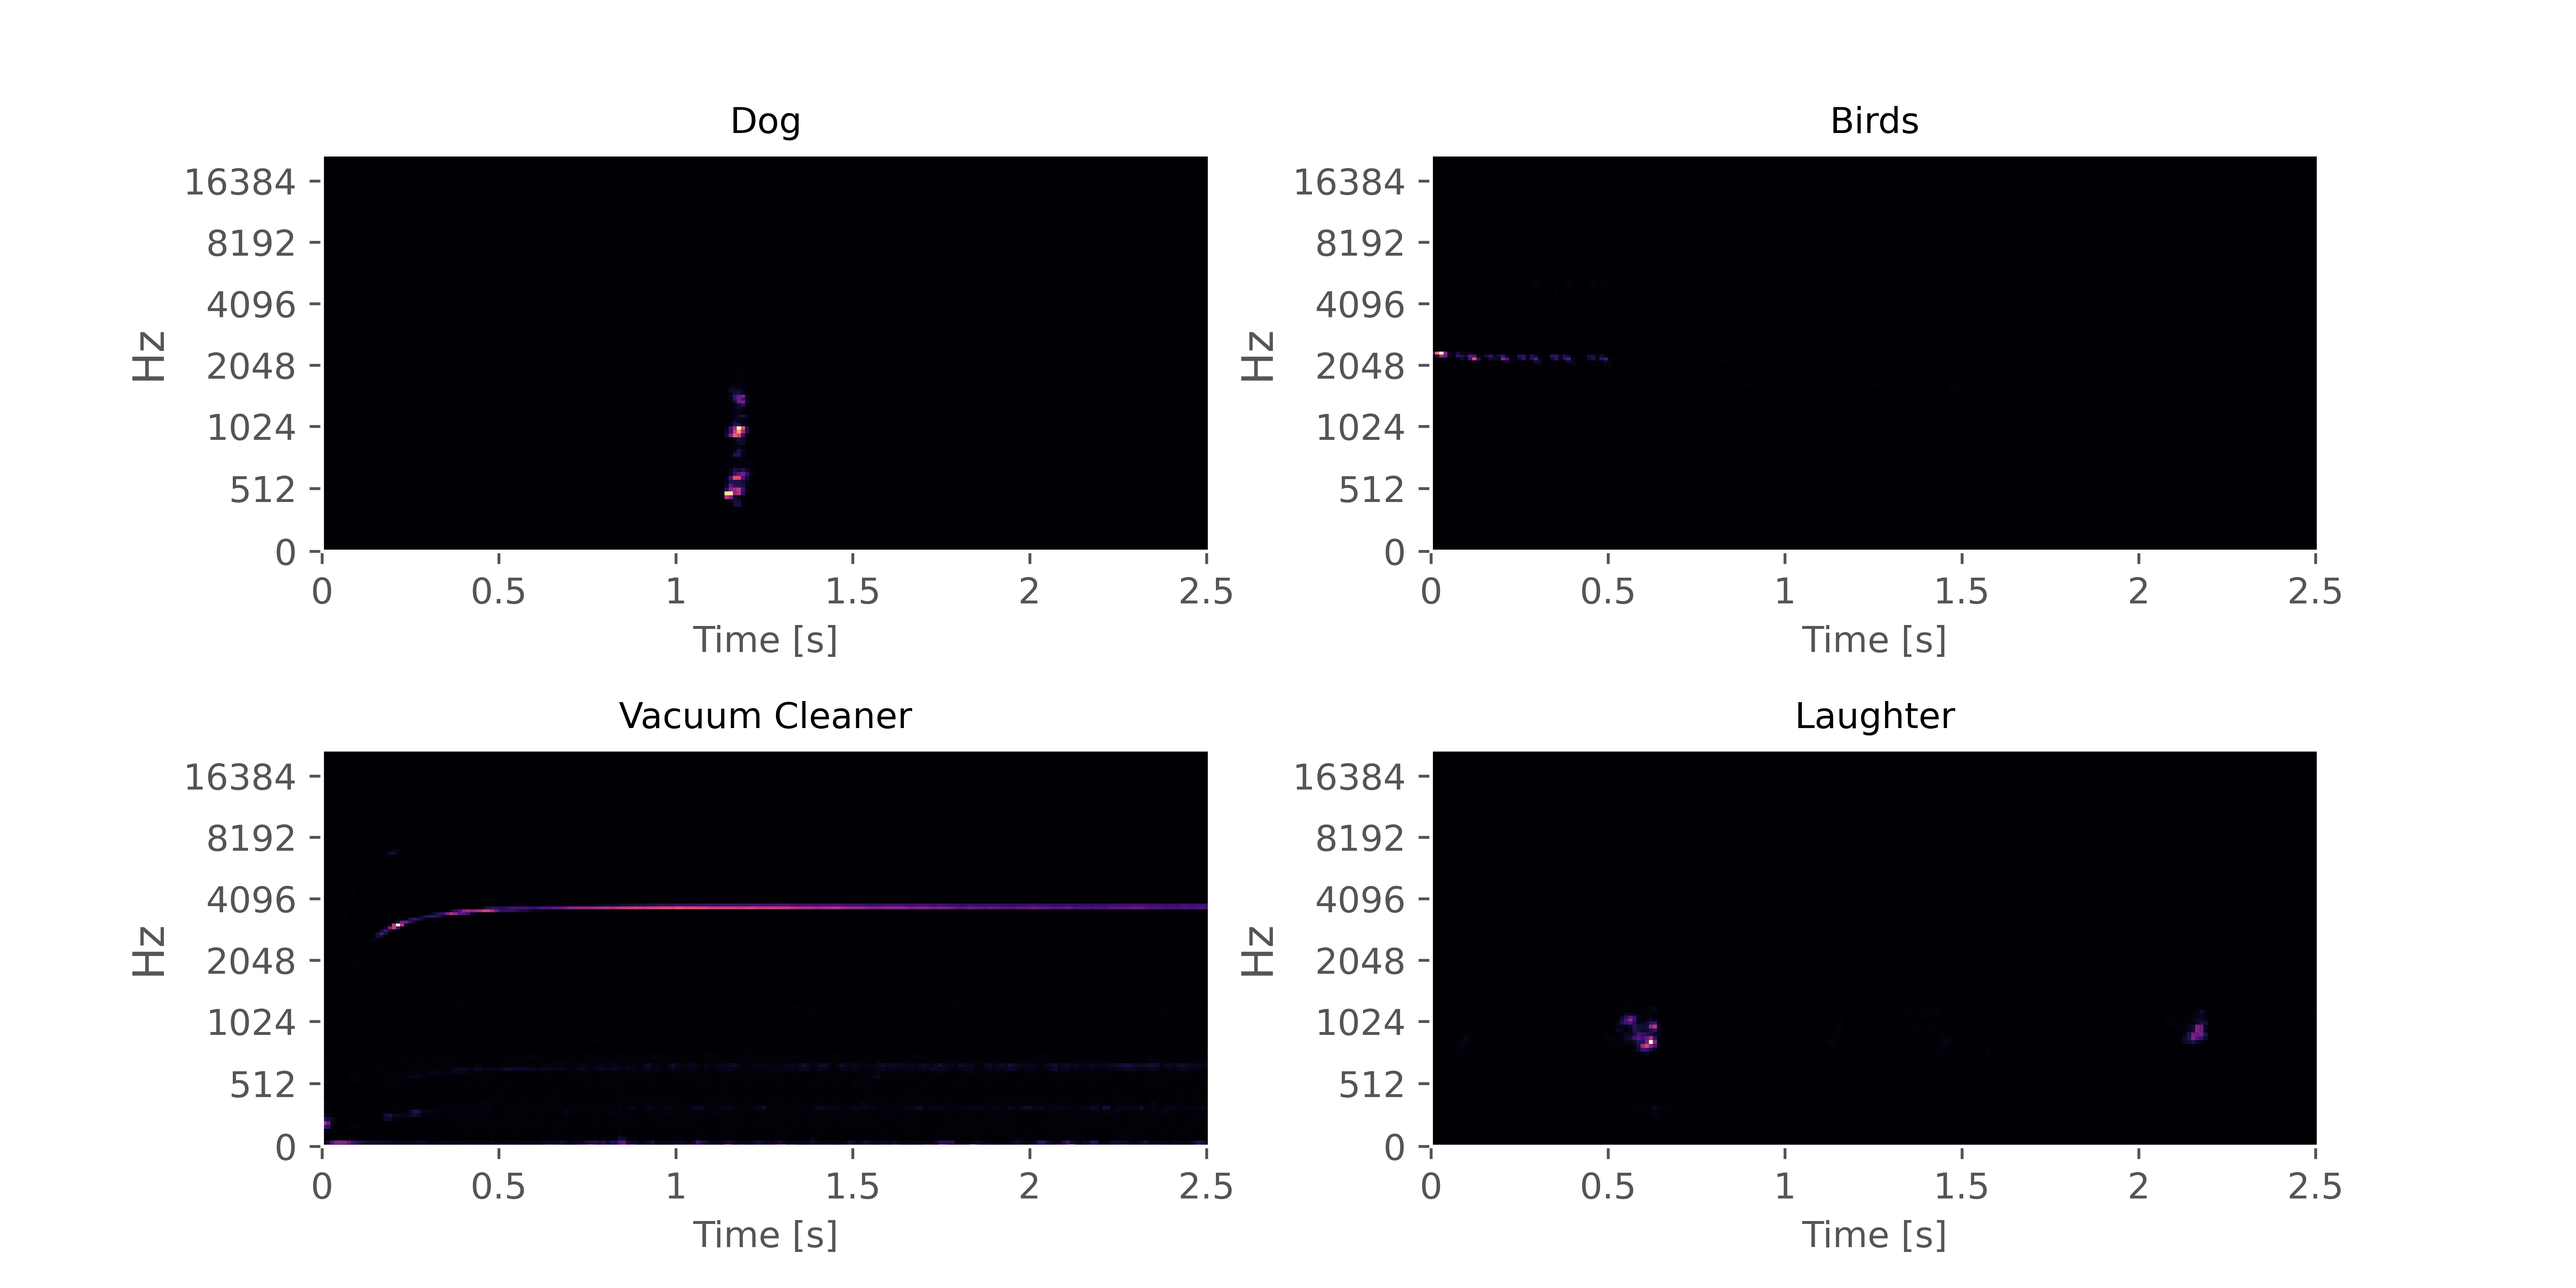
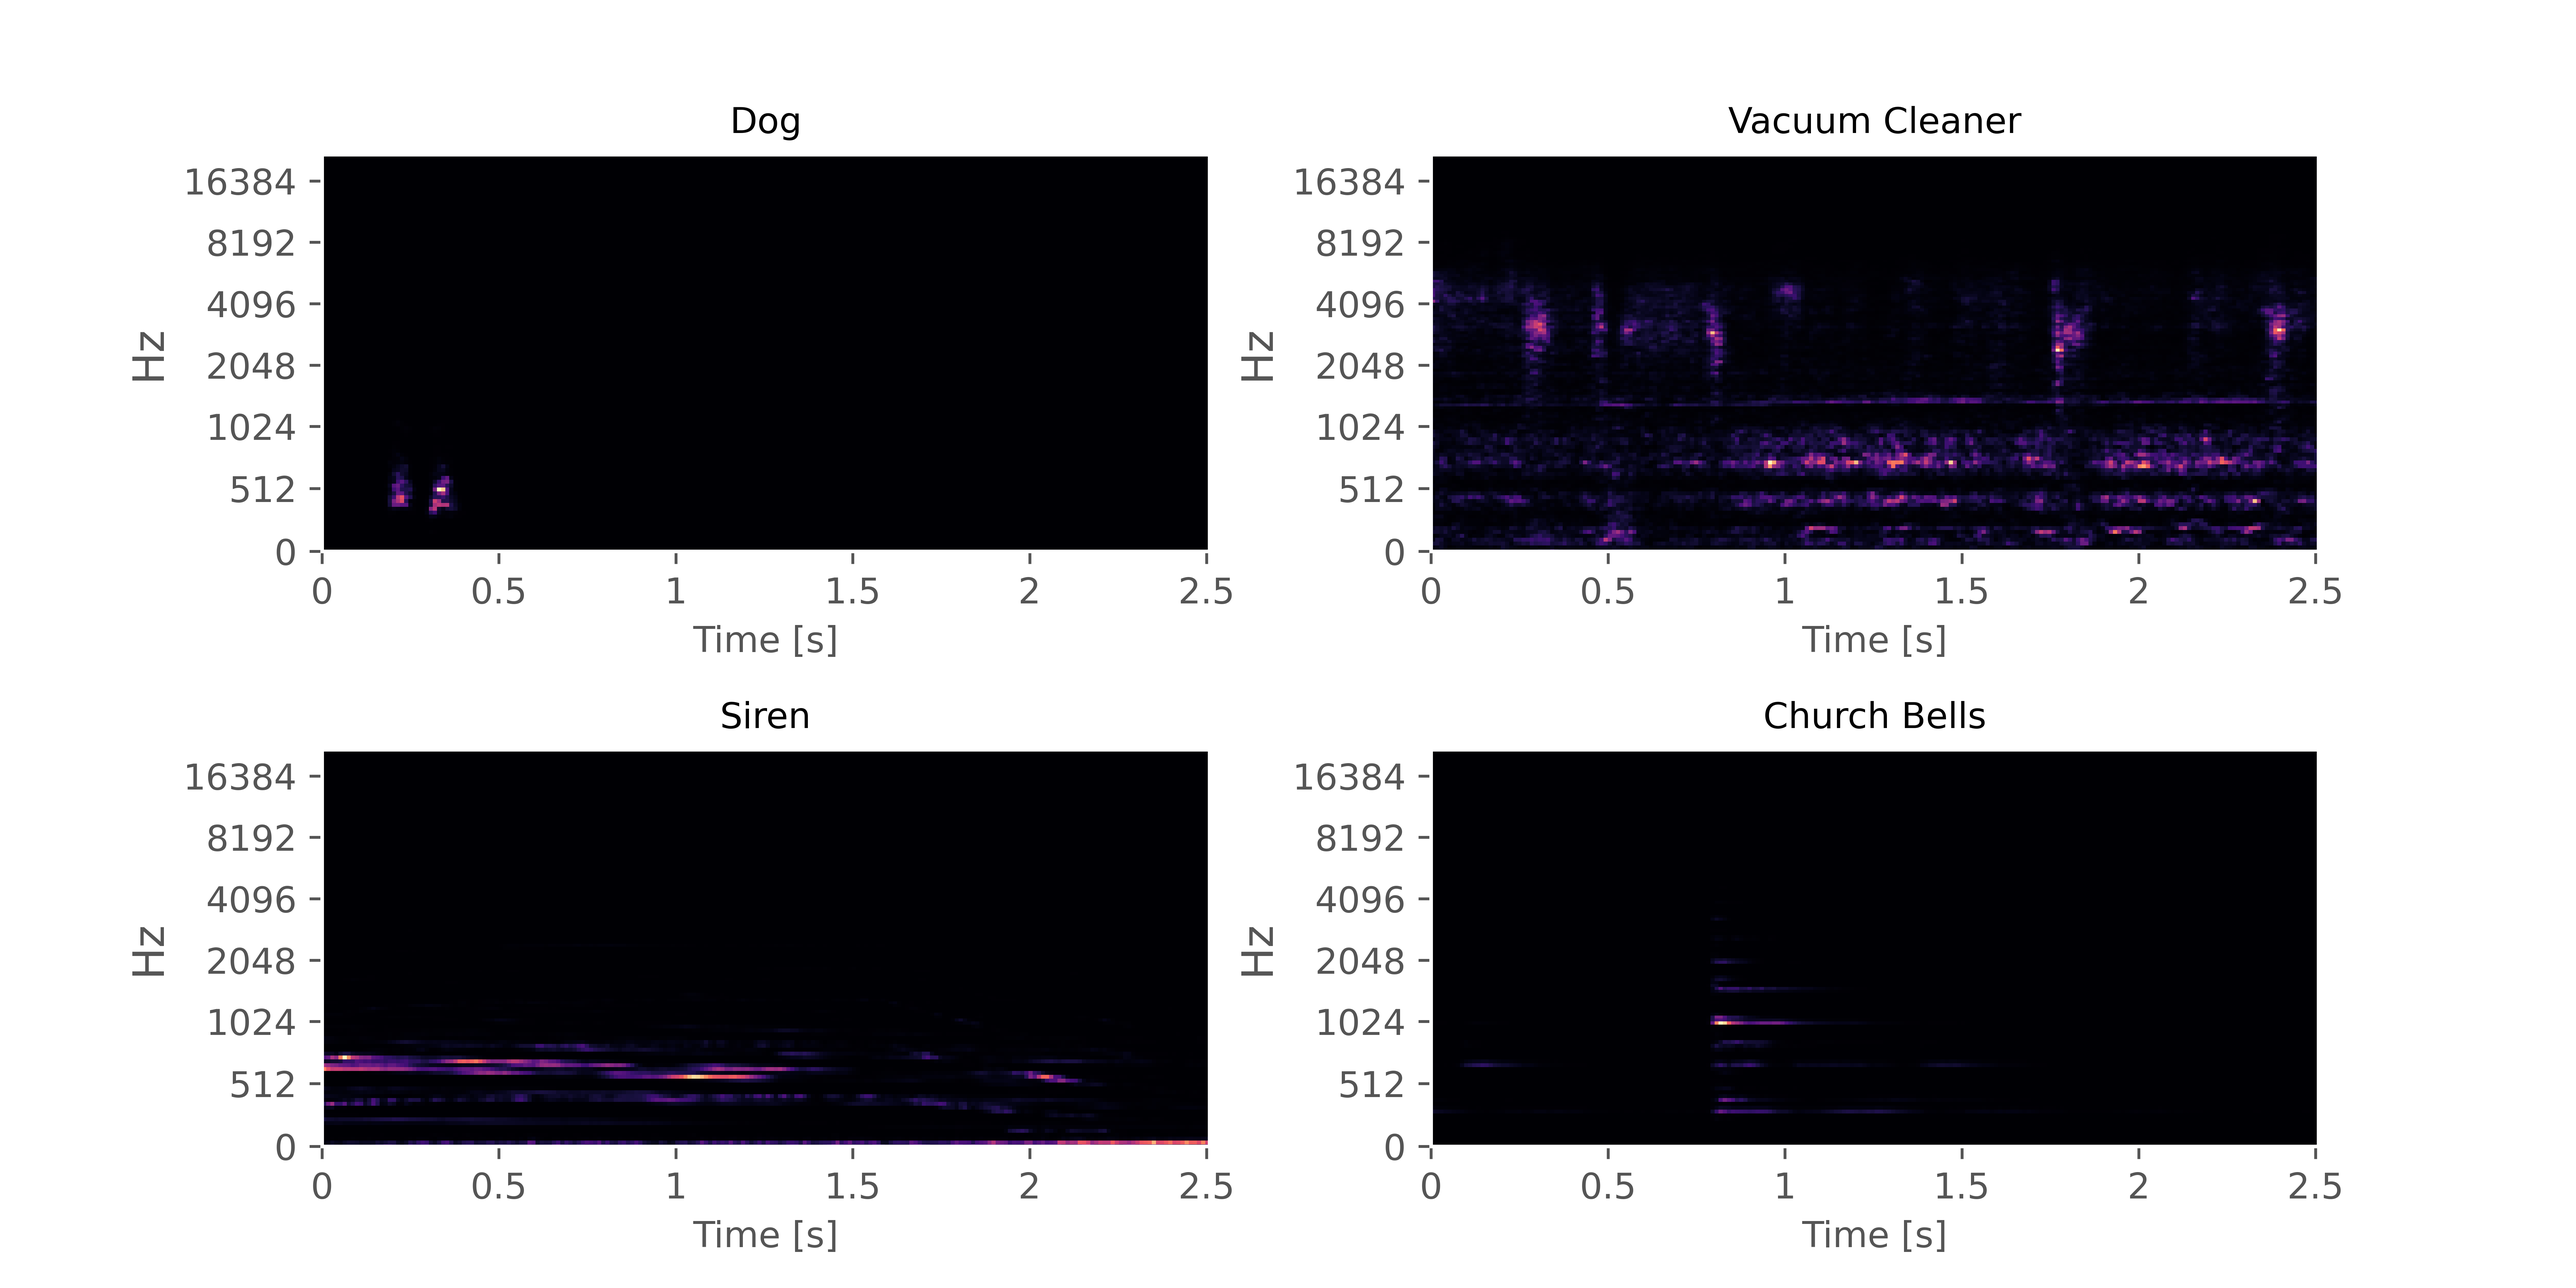
Change classes for article plots

diff --git a/generate_feature_plots.py b/generate_feature_plots.py
@@ -9,10 +9,10 @@ from audio_features import make_spectrogram, make_log_spectrogram, make_mel_spec
 from data_processors import ESC50Reader
 
 EXAMPLES = {
-    "Dog": 0,
-    "Birds": 1,
-    "Vacuum Cleaner": 2,
-    "Laughter": 69
+    "Dog": 496,
+    "Vacuum Cleaner": 1061,
+    "Siren": 641,
+    "Church Bells": 1841
 }
 SR = 44100
 
